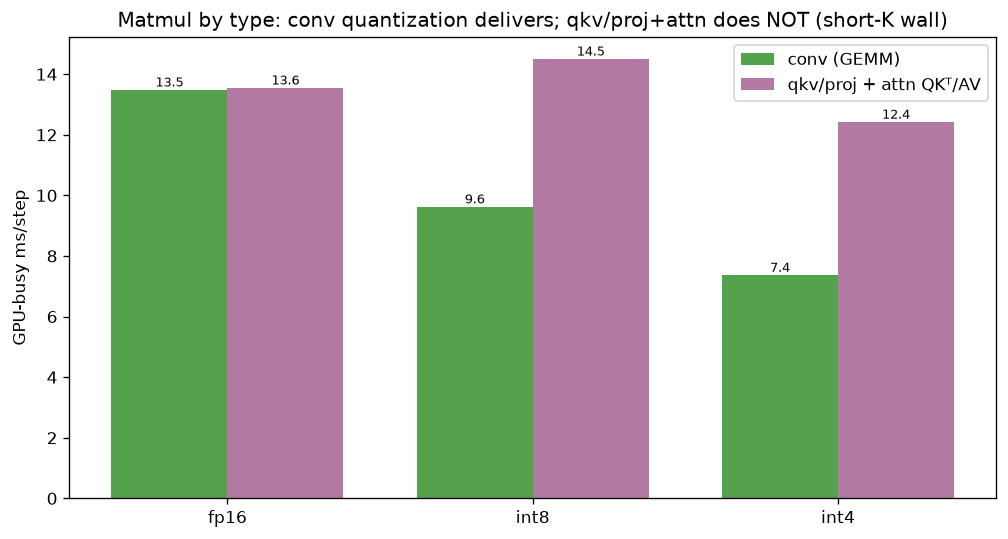
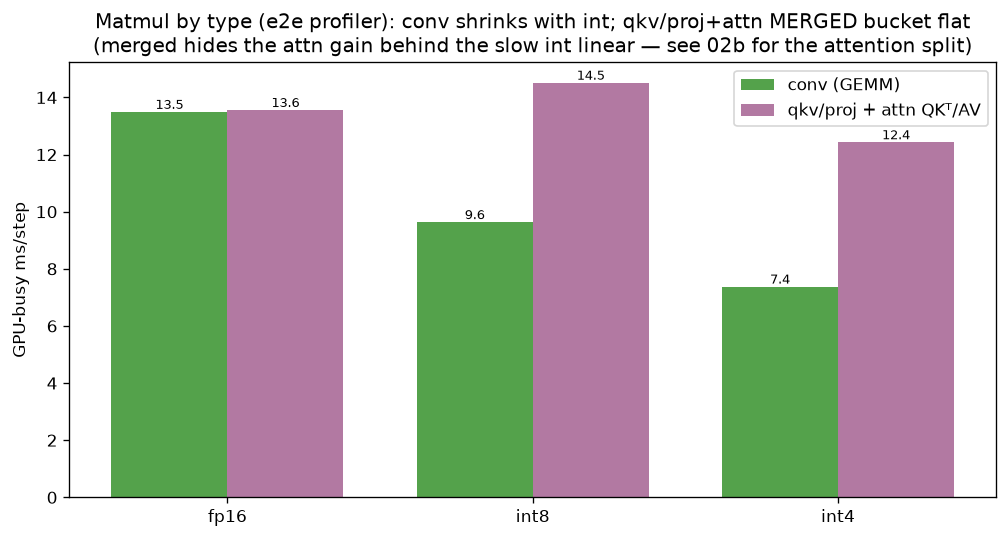
Split attn QKᵀ/AV from qkv/proj in profiler + show attention DOES speed up (report section 2)
Answers "why does int8/int4 show no attn benefit": it's the merged profiler bucket. Split apart:
- Profiler bucket() now separates "attn QKᵀ/AV (int GEMM)" (bmm_qk/av) from "qkv/proj GEMM"
  (pipeline.py). Note fp16 attn is torch.bmm -> generic gemm, so it stays in the qkv/proj bucket
  (can't be name-split); the isolated micro covers fp16.
- attn_ops_split.py: per-op fp16 vs int8 vs int4 (QKᵀ, softmax, AV), same algorithm, only precision.
  T=1024: QKᵀ 2.14x/2.10x, AV 1.18x/2.11x (int8/int4) -- matmuls DO speed up; softmax 1.03x/1.04x
  (precision-neutral, bandwidth-bound on the fp16 score matrix S). So the merged "qkv/proj + attn"
  bucket (flat) hid the attention gain behind the slow int qkv/proj linear (short-K wall).

Re-rendered report section 2: split conv (int faster) / qkv/proj linear (int slower) / attn QKᵀ-AV
(int faster) / softmax (neutral) + attn op table + 02b_attn_ops.png. Adds attn_ops.csv.

diff --git a/docs/quant_speedup_vs_fp16_2026-07-16/scripts/attn_ops_split.py b/docs/quant_speedup_vs_fp16_2026-07-16/scripts/attn_ops_split.py
@@ -1,0 +1,55 @@
+"""Attention sub-op speed by precision (fp16 vs int8 vs int4), per real churches shape. Splits the
+attention matmuls (QKᵀ, AV) and softmax out from the qkv/proj linear so the quantization benefit that
+the merged e2e 'GEMM' bucket hides (behind the slow int qkv/proj linear) is visible. Same algorithm
+per op (materialized), only precision varies. Emits attn_ops.csv."""
+import os, sys, csv, math
+os.chdir("/workspace/MoDiff"); sys.path.insert(0, "/workspace/MoDiff")
+import torch, modiff_cutlass as mc
+OUT = "/workspace/MoDiff/docs/quant_speedup_vs_fp16_2026-07-16/data"
+
+def bench(fn, it=50, warm=20):
+    for _ in range(warm): fn()
+    torch.cuda.synchronize(); s = torch.cuda.Event(enable_timing=True); e = torch.cuda.Event(enable_timing=True)
+    s.record()
+    for _ in range(it): fn()
+    e.record(); torch.cuda.synchronize(); return s.elapsed_time(e) / it * 1e3
+
+rows = []
+print(f"{'shape':>10} {'op':>8} | {'fp16':>8} {'int8':>8} {'int4':>8} | {'i8/16':>5} {'i4/16':>5}")
+for (BH, T, hd) in [(256, 1024, 24), (256, 256, 48), (256, 64, 96)]:
+    scale = 1.0 / math.sqrt(hd)
+    hp8, hp4 = (hd + 31) // 32 * 32, (hd + 63) // 64 * 64
+    Qf = torch.randn(BH, T, hd, device="cuda", dtype=torch.float16)
+    Kf = torch.randn(BH, T, hd, device="cuda", dtype=torch.float16)
+    Vf = torch.randn(BH, T, hd, device="cuda", dtype=torch.float16)
+    # int operands
+    Qi = torch.randint(-127, 127, (BH, T, hp8), device="cuda", dtype=torch.int8)
+    Ki = torch.randint(-127, 127, (BH, T, hp8), device="cuda", dtype=torch.int8)
+    Qi4 = torch.randint(-7, 7, (BH, T, hp4 // 2), device="cuda", dtype=torch.int8)
+    Ki4 = torch.randint(-7, 7, (BH, T, hp4 // 2), device="cuda", dtype=torch.int8)
+    sq = torch.rand(BH, T, device="cuda"); sk = torch.rand(BH, T, device="cuda")
+    S = torch.randn(BH, T, T, device="cuda", dtype=torch.float16); cc = S.float().amax(-1).mean().item()
+    Pf = torch.randn(BH, T, T, device="cuda", dtype=torch.float16)   # fp16 attention probs (precomputed)
+    P8, sp8 = mc.attn_softmax_requant(S); P4, sp4 = mc.attn_softmax_requant4(S)
+    Vt8 = torch.randint(-100, 100, (BH, hp4, T), device="cuda", dtype=torch.int8)
+    Vt4 = torch.randint(-7, 7, (BH, hp4, T // 2), device="cuda", dtype=torch.int8)
+    sv = torch.rand(BH, hp4, device="cuda")
+    ops = {
+        "QKT": (lambda: (torch.bmm(Qf, Kf.transpose(1, 2)) * scale).half(),
+                lambda: mc.attn_qk_int8(Qi, Ki, sq, sk, scale),
+                lambda: mc.attn_qk_int4(Qi4, Ki4, hp4, sq, sk, scale)),
+        "softmax": (lambda: mc.attn_softmax_fp16(S, False, 0.0),
+                    lambda: mc.attn_softmax_requant(S),
+                    lambda: mc.attn_softmax_requant4(S)),
+        "AV": (lambda: torch.bmm(Pf, Vf),
+               lambda: mc.attn_av_int8(P8, Vt8, sp8, sv),
+               lambda: mc.attn_av_int4(P4, Vt4, sp4, sv, T)),
+    }
+    for op, (ff, f8, f4) in ops.items():
+        t16, t8, t4 = bench(ff), bench(f8), bench(f4)
+        print(f"{BH},{T:>4} {op:>8} | {t16:8.1f} {t8:8.1f} {t4:8.1f} | {t16/t8:5.2f} {t16/t4:5.2f}")
+        rows.append(dict(BH=BH, T=T, op=op, fp16_us=round(t16, 1), int8_us=round(t8, 1), int4_us=round(t4, 1),
+                         int8_speedup=round(t16 / t8, 3), int4_speedup=round(t16 / t4, 3)))
+with open(f"{OUT}/attn_ops.csv", "w", newline="") as f:
+    w = csv.DictWriter(f, fieldnames=list(rows[0].keys())); w.writeheader(); w.writerows(rows)
+print("WROTE attn_ops.csv")

diff --git a/docs/quant_speedup_vs_fp16_2026-07-16/scripts/mkplots.py b/docs/quant_speedup_vs_fp16_2026-07-16/scripts/mkplots.py
@@ -48,7 +48,7 @@ if pf:
         ax.text(i - w/2, conv[i], f"{conv[i]:.1f}", ha="center", va="bottom", fontsize=8)
         ax.text(i + w/2, gemm[i], f"{gemm[i]:.1f}", ha="center", va="bottom", fontsize=8)
     ax.set_xticks(x); ax.set_xticklabels([n for _, n, _ in modes]); ax.set_ylabel("GPU-busy ms/step")
-    ax.set_title("Matmul by type: conv quantization delivers; qkv/proj+attn does NOT (short-K wall)")
+    ax.set_title("Matmul by type (e2e profiler): conv shrinks with int; qkv/proj+attn MERGED bucket flat\n(merged hides the attn gain behind the slow int linear — see 02b for the attention split)")
     ax.legend(); save(fig, "02_matmul_breakdown.png")
 
 # ---- 3. Amdahl: where the time goes (stacked), fp16 vs int8-static vs int4-static ----
@@ -133,4 +133,19 @@ if mm:
     ax.set_ylabel("achieved DRAM GB/s"); ax.set_ylim(0, 760); ax.legend()
     ax.set_title("Softmax / score-matrix kernels are DRAM-bandwidth-bound (T=1024, A40)")
     save(fig, "07_softmax_mem_roofline.png")
+# ---- 2b. attention op-by-op speedup vs fp16 (QKᵀ / softmax / AV), T=1024 ----
+ao = rd(D, "attn_ops.csv")
+if ao:
+    r10 = {r["op"]: r for r in ao if int(r["T"]) == 1024}
+    ops = ["QKT", "softmax", "AV"]; x = np.arange(len(ops)); w = 0.38
+    i8 = [float(r10[o]["int8_speedup"]) for o in ops]; i4 = [float(r10[o]["int4_speedup"]) for o in ops]
+    fig, ax = plt.subplots(figsize=(8, 4.6))
+    ax.bar(x - w/2, i8, w, label="int8", color=INT8); ax.bar(x + w/2, i4, w, label="int4", color=INT4)
+    ax.axhline(1.0, ls="--", c=FP16, lw=1, label="fp16 (=1.0)")
+    for i in range(len(ops)):
+        ax.text(i - w/2, i8[i], f"{i8[i]:.2f}×", ha="center", va="bottom", fontsize=8)
+        ax.text(i + w/2, i4[i], f"{i4[i]:.2f}×", ha="center", va="bottom", fontsize=8)
+    ax.set_xticks(x); ax.set_xticklabels(["QKᵀ", "softmax", "AV"]); ax.set_ylabel("speedup vs fp16")
+    ax.set_title("Attention op-by-op: matmuls (QKᵀ, AV) DO speed up; softmax is memory-bound (T=1024)")
+    ax.legend(); save(fig, "02b_attn_ops.png")
 print("plots done")

diff --git a/docs/static_vs_dynamic_2026-07-16/scripts/pipeline.py b/docs/static_vs_dynamic_2026-07-16/scripts/pipeline.py
@@ -43,7 +43,8 @@ def bucket(name):
     if "group_norm" in l or "groupnorm" in l or "rowwisemoments" in l or "computefused" in l: return "GroupNorm"
     if ("gn_accum" in l or "gn_finalize" in l or "fused_gn" in l): return "GroupNorm"
     if "cudnn" in l or "implicit" in l or "fprop" in l or "scudnn" in l or "wgrad" in l or "conv2d" in l: return "conv (GEMM)"
-    if "gemm" in l or "cutlass" in l or "cublas" in l or "bmm" in l: return "GEMM (qkv/proj + attn QK·AV)"
+    if "bmm_qk" in l or "bmm_av" in l: return "attn QKᵀ/AV (int GEMM)"   # int8/int4 attn matmuls (named)
+    if "gemm" in l or "cutlass" in l or "cublas" in l or "bmm" in l: return "qkv/proj GEMM (+ fp16 attn bmm)"
     if ("quantize" in l or "dequant" in l or "sub_absmax" in l or "delta" in l or "o_hat" in l
             or "step1" in l or "pack" in l or "absmax" in l or "aq_" in l): return "quantize / absmax"
     if "store" in l or "epilogue" in l or "requant" in l: return "conv store epilogue"

diff --git a/docs/quant_speedup_vs_fp16_2026-07-16/REPORT.md b/docs/quant_speedup_vs_fp16_2026-07-16/REPORT.md
@@ -56,18 +56,34 @@ and `conv (GEMM)` is separate), which *is* comparable across precisions.
 | **qkv/proj + attn QKᵀ/AV** | 13.6 | 14.5 (0.93×) | 12.4 (1.1×) |
 | combined matmul | 27.0 | 24.1 | 19.8 |
 
-**Conv quantization delivers; qkv/proj+attn does not.** The int qkv/proj linears are short-K,
-memory-bound, and don't beat cuBLAS fp16 (documented kernel wall); the materialized attention is
-memory-bound. So the matmul win is conv-only.
+**The merged `qkv/proj + attn QKᵀ/AV` bucket is misleading** — it lumps two ops that move in opposite
+directions. Split apart (profiler now separates `attn QKᵀ/AV (int GEMM)` via the `bmm_qk/av` kernels):
+
+- **conv (GEMM): quantization delivers** — int8 1.4×, int4 1.8×.
+- **qkv/proj linear: quantization *hurts*** — the linears are short-K (K=192–768), memory-bound, and
+  don't beat cuBLAS fp16 (§5 kernel wall, 0.4–1.0×).
+- **attention QKᵀ/AV: quantization *delivers*** — the gain was hidden by the slow int linear in the
+  merged bucket.
 
 ![Matmul breakdown](02_matmul_breakdown.png)
 
-Attention *in isolation* IS faster in int (from `attn_kernel_speed.csv`, T=1024): fp16 5807 µs →
-int8 4016 (1.45×) → int4 3398 (1.71×) — the tensor-core advantage is real, it just gets masked in the
-bucket by the slow int qkv/proj linears next to it (and disappears at small T where quant overhead
-dominates).
+**Attention op-by-op, isolated (fp16 vs int8 vs int4, T=1024, `attn_ops.csv`):**
 
-![Attention kernel micro](04_attn_micro.png)
+| attention op | fp16 µs | int8 | int4 |
+|---|--:|--:|--:|
+| QKᵀ (writes fp16 S) | 2906 | 1356 (**2.14×**) | 1386 (**2.10×**) |
+| softmax | 1867 | 1806 (1.03×) | 1792 (1.04×) |
+| AV (reads T×T P) | 976 | 824 (1.18×) | 463 (**2.11×**) |
+
+So the attention **matmuls do speed up 2–4×** (QKᵀ 2.1×; AV 1.2× int8 / 2.1× int4 — int4's packed P
+halves the T×T read again). Only **softmax is precision-neutral** (~1.0×): it is bandwidth-bound on the
+**fp16 score matrix S**, which stays fp16 for numerical range regardless of Q/K/V precision, so quantizing
+the operands doesn't shrink its dominant traffic (§7). QKᵀ's 2.1× is partly the scale-fold (fp16 pays a
+separate `S*scale` pass) and partly int8 operands; AV's win is the smaller int P read. Net: quantization
+**does** accelerate attention — the earlier "no benefit" was the merged bucket masking it behind the slow
+int qkv/proj linear.
+
+![Attention op-by-op speedup](02b_attn_ops.png)
 
 ## 3. Why not 2× / 4×? — Amdahl (`kernel_profile.csv`)
 
